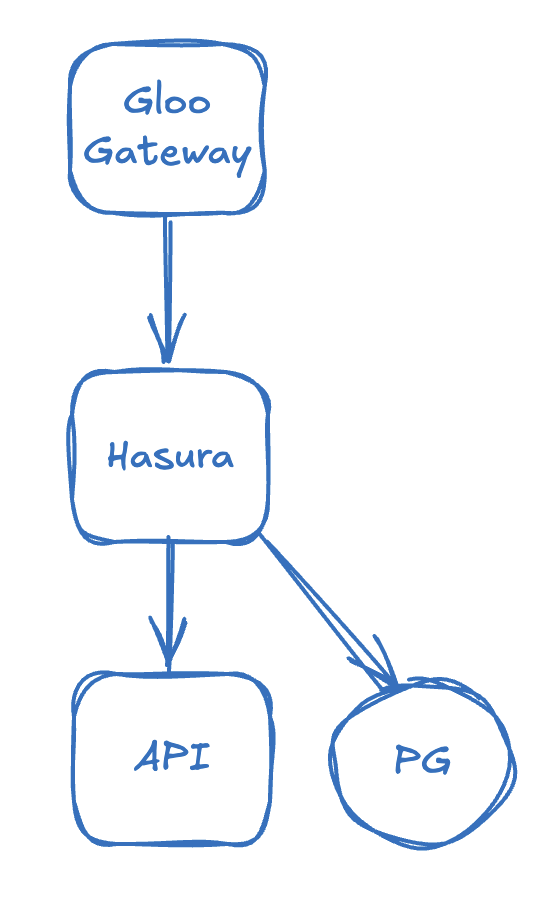
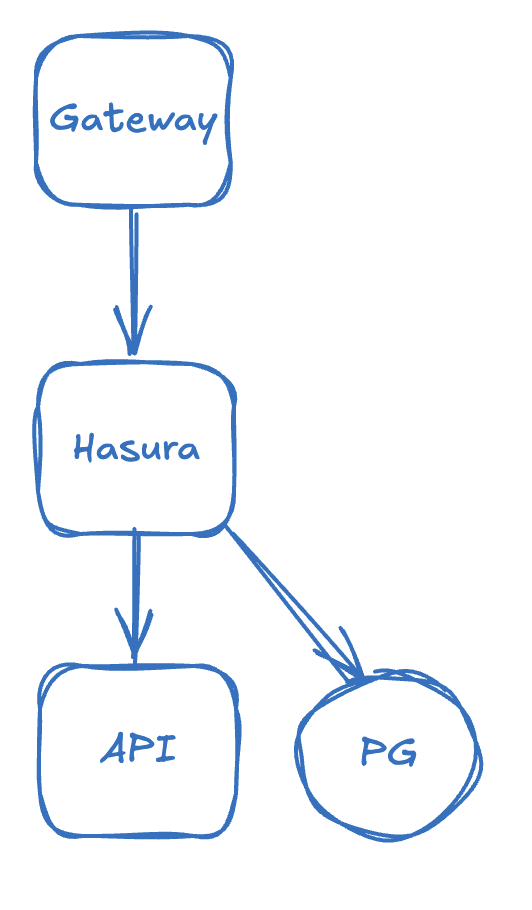
refactors to use kgateway

Changed region(s): [[0.0602, 0.031, 0.9323, 0.9623], [0.1805, 0.8071, 0.391, 0.8692]]

diff --git a/README.md b/README.md
@@ -1,5 +1,9 @@
 <img src="/images/flow.png" width="250">
 
+### Create a Kubernetes cluster
+
+kind create cluster
+
 ### Add the bitnami helm chart
 
 `helm repo add bitnami https://charts.bitnami.com/bitnami`
@@ -153,30 +157,11 @@ curl 'http://localhost:8000/v1/graphql' \
   }' | jq
   ```
 
-### Install Gloo Gateway
+### Deploy kgateway
 
-`kubectl apply -f https://github.com/kubernetes-sigs/gateway-api/releases/download/v1.2.0/standard-install.yaml`
+`kubectl apply -f https://github.com/kubernetes-sigs/gateway-api/releases/download/v1.2.1/standard-install.yaml`
 
-`helm repo add gloo https://storage.googleapis.com/solo-public-helm`
-
-`helm repo update`
-
-```
-helm install -n gloo-system gloo gloo/gloo \
---create-namespace \
---version 1.18.8 \
--f -<<EOF
-discovery:
-  enabled: false
-gatewayProxies:
-  gatewayProxy:
-    disabled: true
-gloo:
-  disableLeaderElection: true
-kubeGateway:
-  enabled: true
-EOF
-```
+`helm install --create-namespace --namespace kgateway-system --version v2.0.0-main kgateway oci://ghcr.io/kgateway-dev/charts/kgateway`
 
 ### Create a Gateway and test
 
@@ -187,10 +172,10 @@ kubectl apply -f- <<EOF
 kind: Gateway
 apiVersion: gateway.networking.k8s.io/v1
 metadata:
-  name: graphql
+  name: graphql-gw
   namespace: default
 spec:
-  gatewayClassName: gloo-gateway
+  gatewayClassName: kgateway
   listeners:
   - protocol: HTTP
     port: 8080
@@ -205,11 +190,11 @@ kubectl apply -f- <<EOF
 apiVersion: gateway.networking.k8s.io/v1
 kind: HTTPRoute
 metadata:
-  name: graphql
+  name: graphql-route
   namespace: default
 spec:
   parentRefs:
-    - name: graphql
+    - name: graphql-gw
       namespace: default
   rules:
     - matches:
@@ -222,13 +207,13 @@ spec:
 EOF
 ```
 
-#### Test connectivity through Gloo Gateway
+#### Test connectivity through the gateway
 
-`kubectl port-forward deployment/gloo-proxy-graphql 8080:8080`
+`kubectl port-forward deployment/graphql-gw 8080:8080`
 
 http://localhost:8080/console
 
-Get all posts (through Gloo Gateway):
+Get all posts (through kgateway):
 
 ```
 curl 'http://localhost:8080/v1/graphql' \
@@ -245,4 +230,4 @@ https://phoenixnap.com/kb/postgresql-kubernetes
 
 https://hasura.io/docs/2.0/deployment/deployment-guides/kubernetes/
 
-https://docs.solo.io/gateway/latest/quickstart/
+https://kgateway.dev/docs/quickstart/
